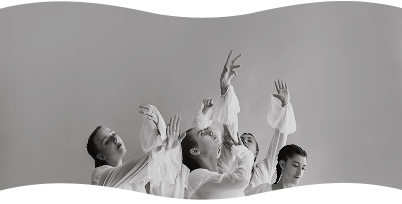
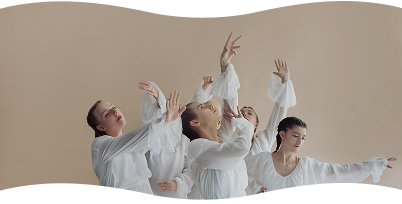
Schedule page

Changed region(s): [[0.209, 0.1471, 1.0, 1.0], [0.0, 0.6471, 0.0299, 0.9412], [0.9851, 0.2353, 1.0, 0.2647]]

diff --git a/empathy-web/src/atomic/organisms/ScheduleTable.svelte b/empathy-web/src/atomic/organisms/ScheduleTable.svelte
@@ -1,0 +1,185 @@
+<script lang="ts">
+    import Label from "../atoms/Text/Label.svelte";
+    import type {Color} from "../atoms/Text/common";
+
+
+    interface Props {
+        address?: string
+    }
+
+    let {
+        address,
+    }: Props = $props();
+
+    const bigTextSize = 18;
+    const smallTextSize = 14;
+</script>
+
+<style>
+    div.schedule-table {
+        width: 100%;
+
+        padding-left: 1em;
+        padding-right: 1em;
+        padding-bottom: 2em;
+
+        display: flex;
+        flex-direction: column;
+    }
+
+    div.schedule-table > :global(label){
+        margin-left: 2em;
+
+    }
+
+    table {
+        width: 100%;
+        margin-top: 0.5em;
+    }
+
+    table > thead {
+        text-align: left;
+    }
+
+    table > thead > tr > th {
+        width: 25%;
+    }
+
+    table > tbody {
+        text-align: center;
+    }
+
+    div.schedule-table > :global(label)::after,
+    table > tbody > tr::after,
+    table > tbody::after {
+        content: "";
+
+        position: absolute;
+        width: 100%;
+        left: 0;
+
+        background-image: url("/schedule/background-wave.png");
+        background-size: cover;
+        background-repeat: no-repeat;
+        background-position-y: bottom;
+        aspect-ratio: 402/20;
+    }
+
+    table > tbody > tr > td > div {
+        display: flex;
+        flex-direction: column;
+        margin-top: 0.4em;
+    }
+
+</style>
+
+<div class="schedule-table">
+    <Label weight="bold" size={bigTextSize}>{address}</Label>
+    <table>
+        <thead>
+        <tr>
+            <th></th>
+            <th><Label size={bigTextSize} weight="bold">12:00</Label></th>
+            <th><Label size={bigTextSize} weight="bold">16:00</Label></th>
+            <th><Label size={bigTextSize} weight="bold">17:00</Label></th>
+        </tr>
+        </thead>
+        <tbody>
+        <tr>
+            <th><Label size={bigTextSize} weight="bold">I</Label></th>
+            <td>
+                <div>
+                    <Label size={bigTextSize} alignment="left">LADIES</Label>
+                    <Label size={smallTextSize}>18+ m.</Label>
+                </div>
+            </td>
+            <td>
+                <div>
+                    <Label size={bigTextSize}>KIDS</Label>
+                    <Label size={smallTextSize}>7-11 m.</Label>
+                </div>
+            </td>
+            <td>
+                <div>
+                    <Label size={bigTextSize}>ADULTS</Label>
+                    <Label size={smallTextSize}>16+ m.</Label>
+                </div>
+            </td>
+        </tr>
+        <tr>
+            <th><Label size={bigTextSize} weight="bold">II</Label></th>
+            <td>
+
+            </td>
+            <td>
+                <div>
+                    <Label size={bigTextSize}>JUNIORS</Label>
+                    <Label size={smallTextSize}>12-15 m.</Label>
+                </div>
+            </td>
+            <td>
+                <div>
+                    <Label size={bigTextSize}>MINI</Label>
+                    <Label size={smallTextSize}>4-6 m.</Label>
+                </div>
+            </td>
+        </tr>
+        <tr>
+            <th><Label size={bigTextSize} weight="bold">III</Label></th>
+            <td>
+                <div>
+                    <Label size={bigTextSize} alignment="left">LADIES</Label>
+                    <Label size={smallTextSize}>18+ m.</Label>
+                </div>
+            </td>
+            <td>
+                <div>
+                    <Label size={bigTextSize}>KIDS</Label>
+                    <Label size={smallTextSize}>7-11 m.</Label>
+                </div>
+            </td>
+            <td>
+                <div>
+                    <Label size={bigTextSize}>ADULTS</Label>
+                    <Label size={smallTextSize}>16+ m.</Label>
+                </div>
+            </td>
+        </tr>
+        <tr>
+            <th><Label size={bigTextSize} weight="bold">IV</Label></th>
+            <td>
+
+            </td>
+            <td>
+                <div>
+                    <Label size={bigTextSize}>JUNIORS</Label>
+                    <Label size={smallTextSize}>12-15 m.</Label>
+                </div>
+            </td>
+            <td>
+                <div>
+                    <Label size={bigTextSize}>MINI</Label>
+                    <Label size={smallTextSize}>4-6 m.</Label>
+                </div>
+            </td>
+        </tr>
+        <tr>
+            <th><Label size={bigTextSize} weight="bold">V</Label></th>
+            <td>
+
+            </td>
+            <td>
+
+            </td>
+            <td>
+                <div>
+                    <Label size={bigTextSize}>LADIES</Label>
+                    <Label size={smallTextSize}>18+ m.</Label>
+                    <Label size={smallTextSize}>*17:00-18:30</Label>
+                </div>
+            </td>
+        </tr>
+        </tbody>
+    </table>
+
+</div>

diff --git a/empathy-web/src/atomic/atoms/Text/common.ts b/empathy-web/src/atomic/atoms/Text/common.ts
@@ -3,12 +3,14 @@
 export type Font = 'arsenal' | 'cormorant';
 export type Weight = 'normal' | 'bold';
 export type Color = 'black' | 'white' | 'gray';
+export type Alignment = 'left' | 'right' | 'center' | 'justify';
 
 export interface TextProps {
     size?: number,
     font?: Font,
     weight?: Weight,
     color?: Color,
+    alignment?: Alignment,
     children?: Snippet
 }
 
@@ -17,19 +19,22 @@ export interface RenderParameters {
     font: string;
     weight: number;
     color: string;
+    alignment: string;
 }
 
 export function parseRenderParameters(props: TextProps): RenderParameters {
     let size = props.size ?? 12;
-    let color = props.color ?? 'black';
+    let color = props.color ?? 'gray';
     let font = props.font ?? 'arsenal';
     let weight = props.weight ?? 'normal';
+    let alignment = props.alignment ?? 'justify';
 
     return {
         size: size,
         color: colors[color],
         font: fonts[font],
         weight: weights[weight],
+        alignment: alignment
     }
 }
 

diff --git a/empathy-web/src/routes/+page.svelte b/empathy-web/src/routes/+page.svelte
@@ -9,8 +9,8 @@
 </style>
 
 <div class="flex flex-col w-full">
-    <HeroImage name="ABOUT US" imageUrl="./home/about.png" href="./about" animationDelay={100}/>
-    <HeroImage name="SCHEDULE" imageUrl="./home/schedule.png" href="./schedule" animationDelay={200}/>
-    <HeroImage name="PRICES" imageUrl="./home/prices.png" href="./prices" animationDelay={300}/>
-    <HeroImage name="SERVICES" imageUrl="./home/services.png" href="./services" animationDelay={400}/>
+    <HeroImage title="ABOUT US" imageUrl="./home/about.png" href="./about" animationDelay={100}/>
+    <HeroImage title="SCHEDULE" imageUrl="./home/schedule.png" href="./schedule" animationDelay={200}/>
+    <HeroImage title="PRICES" imageUrl="./home/prices.png" href="./prices" animationDelay={300}/>
+    <HeroImage title="SERVICES" imageUrl="./home/services.png" href="./services" animationDelay={400}/>
 </div>

diff --git a/empathy-web/src/routes/schedule/+page.svelte b/empathy-web/src/routes/schedule/+page.svelte
@@ -3,6 +3,8 @@
     import Heading from "../../atomic/atoms/Text/Heading.svelte";
     import TextContainer from "../../atomic/molecules/TextContainer.svelte";
     import Paragraph from "../../atomic/atoms/Text/Paragraph.svelte";
+    import ScheduleTable from "../../atomic/organisms/ScheduleTable.svelte";
+    import RegisterButton from "../../atomic/atoms/RegisterButton.svelte";
 </script>
 
 <style>
@@ -10,8 +12,11 @@
 </style>
 
 <div class="flex flex-col w-full">
-    <HeroImage name="Schedule"
-               title="schedule"
-               imageUrl="/schedule/schedule.png"
-               separator/>
+    <HeroImage title="schedule" imageUrl="schedule/schedule.png" separator/>
+
+    <ScheduleTable address="EITMINŲ G. 20"/>
+
+    <div class="mb-10 flex justify-center">
+        <RegisterButton/>
+    </div>
 </div>

diff --git a/empathy-web/src/atomic/molecules/FeedbackCarousel.svelte b/empathy-web/src/atomic/molecules/FeedbackCarousel.svelte
@@ -107,7 +107,9 @@
         {#each items as item}
             <SplideSlide>
                 <div class="carousel-item">
-                    <Label size={16}>{item.text}</Label>
+                    <div class="h-full flex flex-col items-center justify-center">
+                        <Label alignment="center" size={16}>{item.text}</Label>
+                    </div>
 
                     <div class="flex flex-col items-center">
                         <img src="icons/heart.png" alt=""/>

diff --git a/empathy-web/src/atomic/atoms/Text/Label.svelte b/empathy-web/src/atomic/atoms/Text/Label.svelte
@@ -2,7 +2,7 @@
     import {parseRenderParameters, type TextProps} from "./common";
 
     let props: TextProps = $props();
-    let {size, font, weight, color} = parseRenderParameters(props);
+    let {size, font, weight, color, alignment} = parseRenderParameters(props);
 </script>
 
 <style>
@@ -18,6 +18,7 @@
     font-size: {size}px;
     font-family: {font};
     font-weight: {weight};
+    text-align: {alignment};
     color: {color};">
     {@render props.children?.()}
 </label>

diff --git a/empathy-web/src/routes/prices/+page.svelte b/empathy-web/src/routes/prices/+page.svelte
@@ -12,10 +12,10 @@
 </style>
 
 <div class="flex flex-col w-full">
-    <HeroImage name="One lesson"
+    <HeroImage title="One lesson"
                imageUrl="/prices/one-lesson.png"/>
-    <HeroImage name="Month"
+    <HeroImage title="Month"
                imageUrl="/prices/month.png"/>
-    <HeroImage name="Individual"
+    <HeroImage title="Individual"
                imageUrl="/prices/individual.png"/>
 </div>

diff --git a/empathy-web/src/atomic/atoms/RegisterButton.svelte b/empathy-web/src/atomic/atoms/RegisterButton.svelte
@@ -1,0 +1,20 @@
+<script lang="ts">
+
+</script>
+
+<style>
+    button {
+        font-family: "Arsenal", serif;
+        color: #626262;
+        font-size: 16pt;
+        border: 1px solid #5F5B5B;
+        transition: background-color 0.2s ease-in-out;
+        cursor: pointer;
+    }
+
+</style>
+
+<button class="py-2 px-6 rounded-full"
+        on:click={() => alert('register')}>
+    REGISTRACIJA
+</button>

diff --git a/empathy-web/src/routes/about/+page.svelte b/empathy-web/src/routes/about/+page.svelte
@@ -14,7 +14,7 @@
 </style>
 
 <div class="flex flex-col w-full">
-    <HeroImage name="we are empathy" imageUrl="about/we-are.png" separator/>
+    <HeroImage title="we are empathy" imageUrl="about/we-are.png" separator/>
 
     <TextContainer>
         <Heading size={headingSize}>

diff --git a/empathy-web/src/routes/+layout.svelte b/empathy-web/src/routes/+layout.svelte
@@ -11,7 +11,8 @@
 
     const noScrollPages = [
         base,
-        base + '/prices'
+        base + '/prices',
+        base + '/schedule'
     ];
 
     afterNavigate(() => {

diff --git a/empathy-web/src/atomic/organisms/Footer.svelte b/empathy-web/src/atomic/organisms/Footer.svelte
@@ -6,8 +6,6 @@
     }
 
     let {isFixed}: Props = $props();
-
-    console.log(isFixed);
 </script>
 
 <style>
